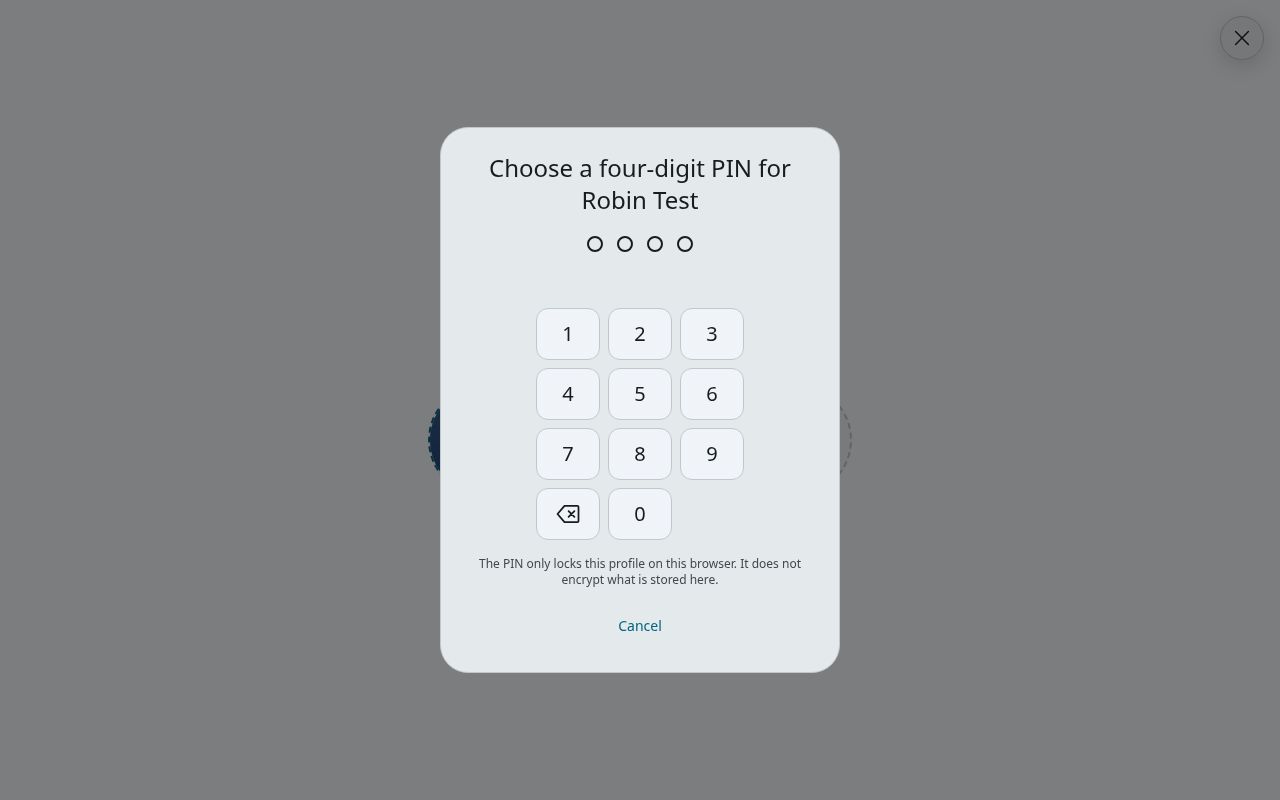
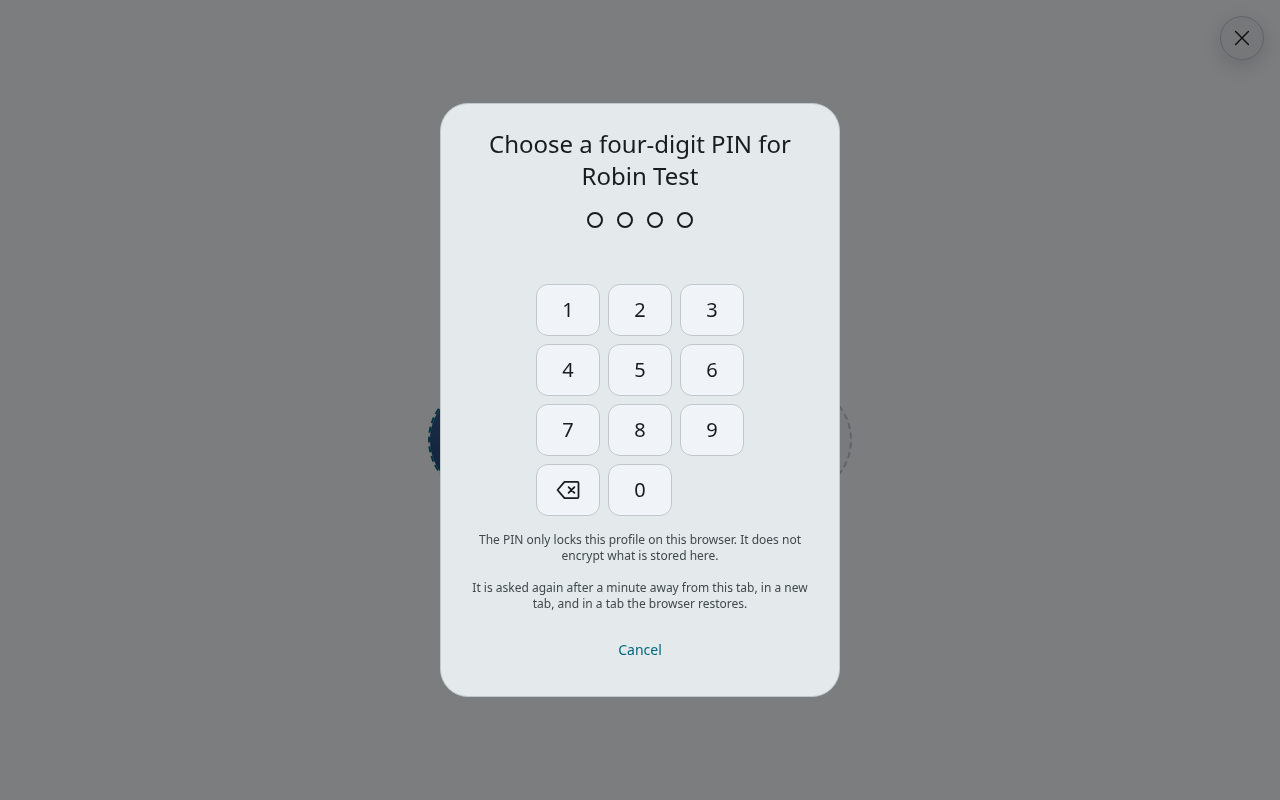
HX88 B3 web fourth review, end to end: locked under a playing video, the player's and the page's keys change nothing, nothing plays, no picture in picture or full screen, the Media Session's handlers are all cleared and the page behind is inert; a dialog opened after the lock does not open; the plac

Changed region(s): [[0.3438, 0.375, 0.6562, 0.875], [0.3438, 0.125, 0.6562, 0.3125]]

diff --git a/webapp/e2e/profiles.spec.ts b/webapp/e2e/profiles.spec.ts
@@ -671,3 +671,86 @@ test('Remove all refuses, before wiping anything, while a profile is open in ano
     expect((await readBook(page))!.profiles.map((p) => p.id)).toEqual(['main', 'abc123'])
     await other.close()
 })
+
+// ---- Fourth review ----
+
+test('locked under a playing video: no key plays, opens or skips it, and nothing of it plays on', async ({ page }) => {
+    // The Media Session as the OS's player sees it: every handler the page sets is noted.
+    await page.addInitScript(() => {
+        const handlers: Record<string, unknown> = {}
+        ;(window as unknown as { __media: Record<string, unknown> }).__media = handlers
+        const session = navigator.mediaSession
+        if (!session) return
+        const set = session.setActionHandler.bind(session)
+        session.setActionHandler = (action, handler) => {
+            handlers[action] = handler
+            set(action, handler)
+        }
+    })
+    await danaUnlocked(page)
+    await page.clock.install()
+    await openClips(page)
+    await openCard(page, 'Native Clip')
+    await playsPast(page, 1)
+    expect(await page.evaluate(() => Object.values((window as unknown as { __media: Record<string, unknown> }).__media).some((h) => typeof h === 'function'))).toBe(true)
+    await showTab(page, 'hidden')
+    await page.clock.fastForward(61_000)
+    await showTab(page, 'visible')
+    await expect(picker(page)).toBeVisible()
+    // The player closed after keeping its place; its media and the Media Session are empty.
+    await expect(page).not.toHaveURL(/\/watch\//)
+    const state = () =>
+        page.evaluate(() => ({
+            playing: [...document.querySelectorAll('video, audio')].some((m) => !(m as HTMLMediaElement).paused),
+            pip: !!document.pictureInPictureElement,
+            fullscreen: !!document.fullscreenElement,
+            metadata: navigator.mediaSession?.metadata ?? null,
+            playback: navigator.mediaSession?.playbackState ?? 'none',
+            handlers: Object.entries((window as unknown as { __media: Record<string, unknown> }).__media).filter(([, h]) => h !== null).map(([a]) => a),
+            path: location.pathname,
+            dialogs: [...document.querySelectorAll('dialog[open]')].map((d) => d.className),
+        }))
+    const locked = { playing: false, pip: false, fullscreen: false, metadata: null, playback: 'none', handlers: [], path: '/', dialogs: ['profiles'] }
+    expect(await state()).toEqual(locked)
+    // The player's keys, the page's keys: nothing changes.
+    for (const key of ['k', 'p', 'Control+p', 'Shift+N', ' ', 'ArrowLeft', 'ArrowRight', 'ArrowUp', 'ArrowDown', '/', 'Escape', 'Control+k']) await page.keyboard.press(key)
+    await page.clock.fastForward(2_000)
+    expect(await state()).toEqual(locked)
+    await expect(picker(page)).toBeVisible()
+    // The page behind is inert and hidden from screen readers.
+    expect(await page.locator('main.page').evaluate((m) => m.hasAttribute('inert'))).toBe(true)
+    // A dialog that opens late (an answer coming back after the lock) does not open.
+    expect(
+        await page.evaluate(() => {
+            const d = document.body.appendChild(document.createElement('dialog'))
+            d.textContent = 'late answer'
+            d.showModal()
+            return d.open
+        }),
+    ).toBe(false)
+    // The PIN opens it again, at Home; the place was kept for Continue watching.
+    await tile(page, /^Dana Test/).click()
+    await page.keyboard.type('1111')
+    await expect(picker(page)).toHaveCount(0)
+    expect(await page.evaluate(() => Object.keys(localStorage).some((k) => k.startsWith('tmplayer-last-position')))).toBe(true)
+})
+
+test('Remove all checks again right before wiping: a tab opened while its question was up stops it', async ({ page, context }) => {
+    await twoProfiles(page)
+    await page.goto('/')
+    await tile(page, /^Dana Test/).click()
+    await expect(page.locator('main.page')).toBeVisible()
+    await openSettings(page)
+    await page.getByRole('button', { name: 'Remove all accounts' }).click()
+    const ask = page.getByRole('dialog', { name: 'Remove all accounts?' })
+    await expect(ask).toBeVisible()
+    const other = await context.newPage()
+    await other.goto('/')
+    await reloads(other, () => tile(other, /^Robin Test/).click())
+    await expect(other.locator('main.page')).toBeVisible()
+    await ask.getByRole('button', { name: 'Remove all' }).click()
+    await expect(page.getByText('A profile is open in another tab. Close it there first: nothing was removed')).toBeVisible()
+    expect((await readBook(page))!.profiles.map((p) => p.id)).toEqual(['main', 'abc123'])
+    expect(await storedKeys(page)).toContain('@abc123:addedMode')
+    await other.close()
+})
